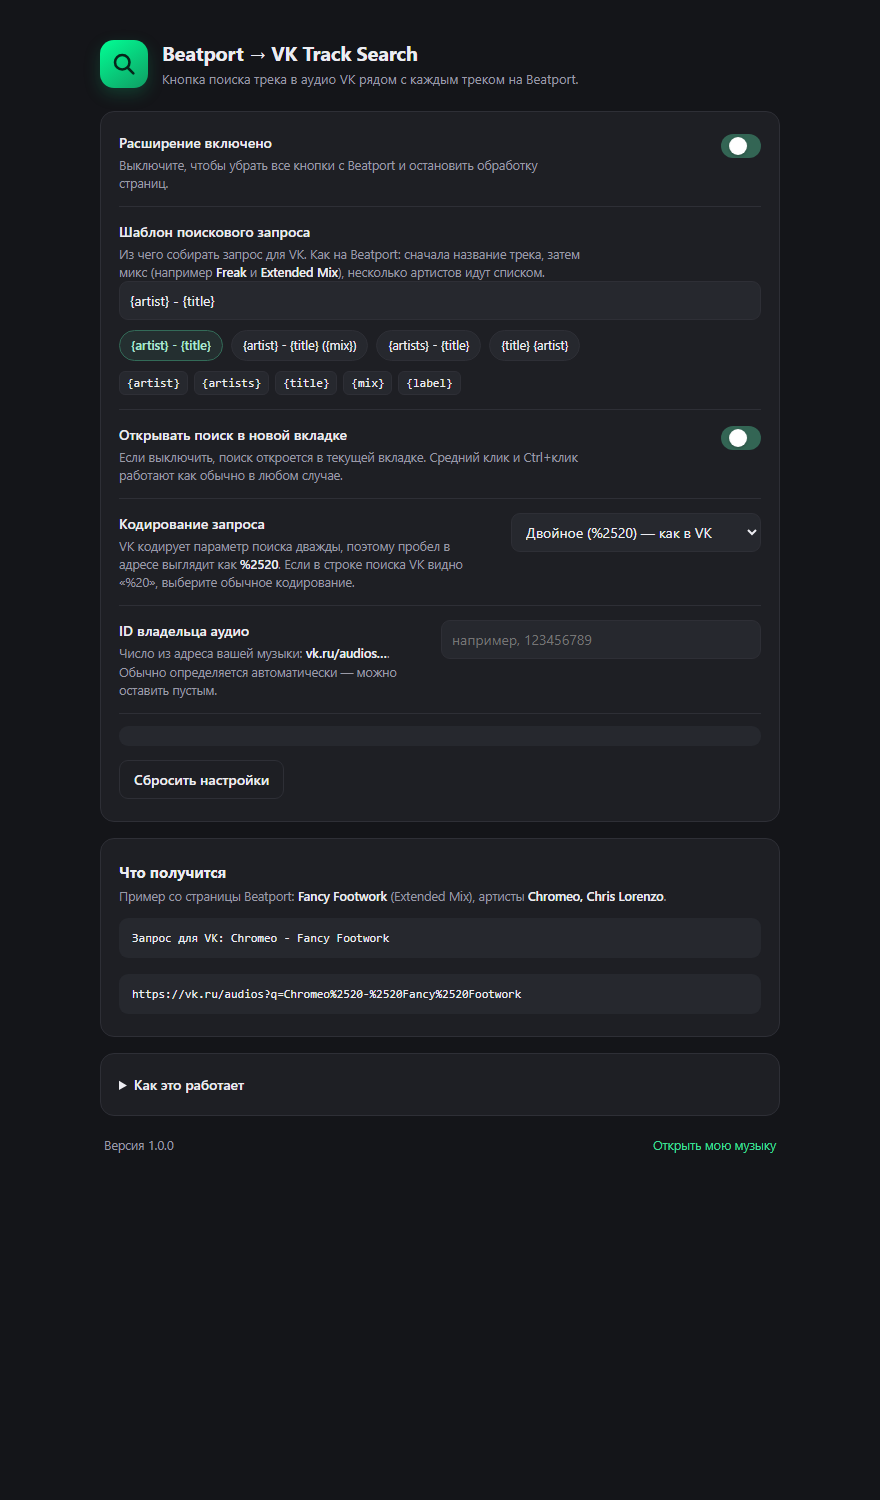
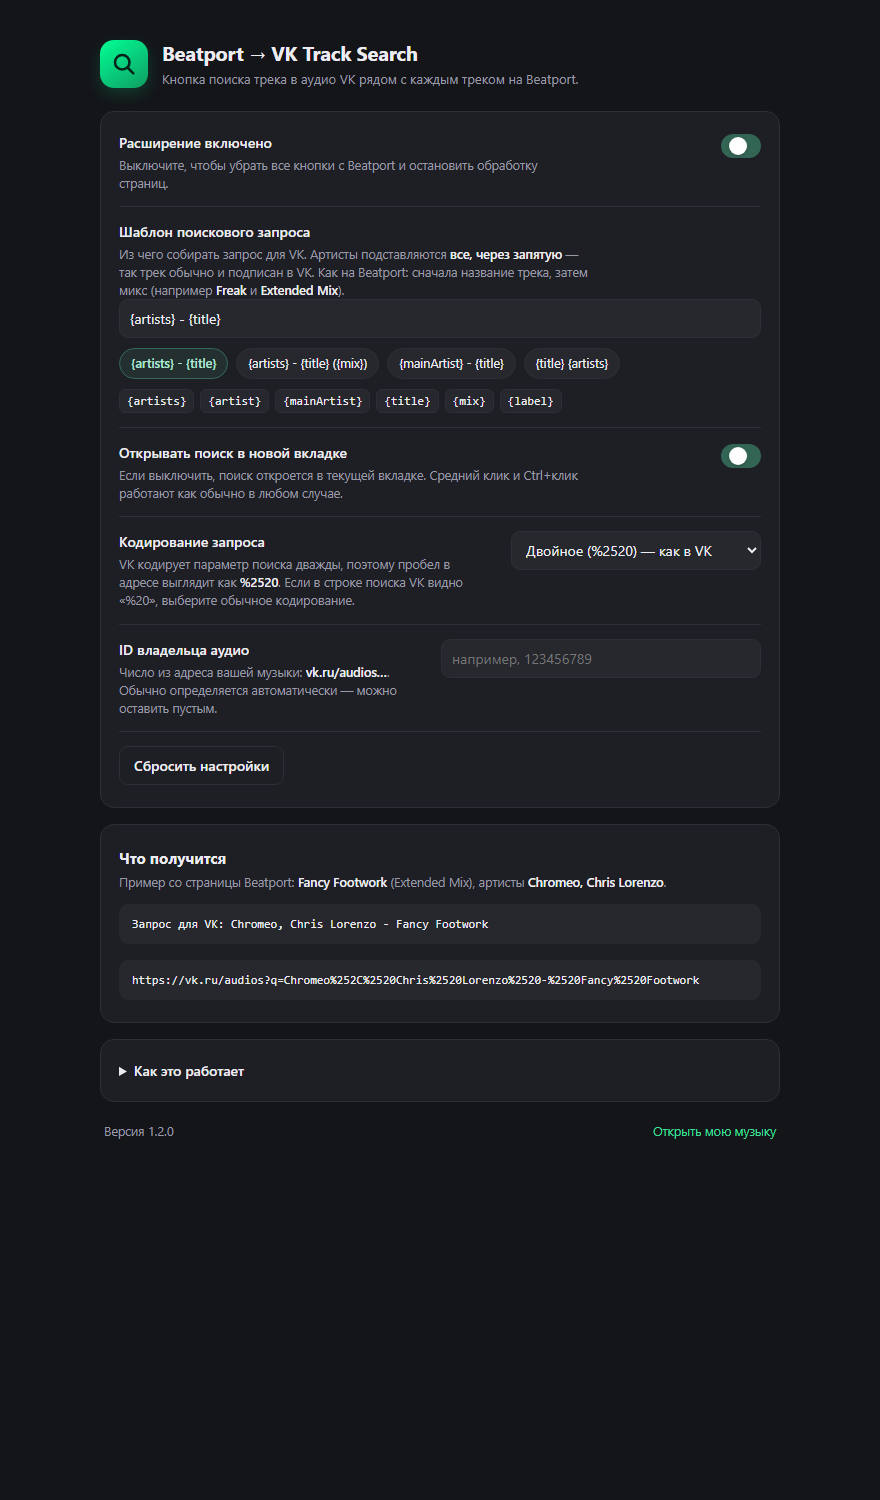
Beatport VK Track Search 1.2.0
Every artist of the track now goes into the query, comma separated: Bryan Kearney, John O'Callaghan, Key4050 - Stay In Your Lane. {artist} becomes a synonym of {artists} so templates saved in 1.0-1.1 start working as expected without edits; {mainArtist} keeps the first-only behaviour and the default template is now {artists} - {title}. 100 jsdom tests, options screenshot refreshed.

diff --git a/extension/options.html b/extension/options.html
@@ -34,22 +34,24 @@
         <label class="text" for="queryTemplate">
           <span class="label">Шаблон поискового запроса</span>
           <span class="hint">
-            Из чего собирать запрос для VK. Как на Beatport: сначала название трека, затем микс
-            (например <strong>Freak</strong> и <strong>Extended Mix</strong>), несколько артистов идут списком.
+            Из чего собирать запрос для VK. Артисты подставляются <strong>все, через запятую</strong> —
+            так трек обычно и подписан в VK. Как на Beatport: сначала название трека, затем микс
+            (например <strong>Freak</strong> и <strong>Extended Mix</strong>).
           </span>
         </label>
         <input class="text-input wide" type="text" id="queryTemplate" spellcheck="false">
 
         <div class="presets" id="presets">
-          <button type="button" class="chip" data-template="{artist} - {title}">{artist} - {title}</button>
-          <button type="button" class="chip" data-template="{artist} - {title} ({mix})">{artist} - {title} ({mix})</button>
           <button type="button" class="chip" data-template="{artists} - {title}">{artists} - {title}</button>
-          <button type="button" class="chip" data-template="{title} {artist}">{title} {artist}</button>
+          <button type="button" class="chip" data-template="{artists} - {title} ({mix})">{artists} - {title} ({mix})</button>
+          <button type="button" class="chip" data-template="{mainArtist} - {title}">{mainArtist} - {title}</button>
+          <button type="button" class="chip" data-template="{title} {artists}">{title} {artists}</button>
         </div>
 
         <div class="tokens" id="tokens">
-          <span class="token">{artist}</span>
-          <span class="token">{artists}</span>
+          <span class="token" title="Все артисты через запятую">{artists}</span>
+          <span class="token" title="То же, что {artists}">{artist}</span>
+          <span class="token" title="Только первый артист">{mainArtist}</span>
           <span class="token">{title}</span>
           <span class="token">{mix}</span>
           <span class="token">{label}</span>

diff --git a/extension/common.js b/extension/common.js
@@ -9,13 +9,14 @@
 (function () {
   'use strict';
 
-  var VERSION = '1.1.0';
+  var VERSION = '1.2.0';
 
   var DEFAULTS = {
     // Включено ли расширение целиком.
     enabled: true,
-    // Шаблон поискового запроса. Подстановки: {artist}, {artists}, {title}, {mix}, {label}.
-    queryTemplate: '{artist} - {title}',
+    // Шаблон поискового запроса. Подстановки: {artists}, {artist}, {mainArtist},
+    // {title}, {mix}, {label}.
+    queryTemplate: '{artists} - {title}',
     // Открывать поиск VK в новой вкладке.
     openInNewTab: true,
     // VK кодирует параметр поиска дважды: пробел выглядит как %2520.
@@ -36,6 +37,12 @@
   /*
    * Собирает поисковый запрос из данных трека.
    * info: { artists: [...], title, mix, label }
+   *
+   * Про артистов: у трека на Beatport их бывает несколько (Bryan Kearney,
+   * John O'Callaghan, Key4050), и в VK трек обычно подписан всеми сразу.
+   * Поэтому {artist} — это ВСЕ артисты через запятую (синоним {artists},
+   * имя оставлено, чтобы шаблоны 1.0–1.1 заработали правильно без правок),
+   * а {mainArtist} — только первый.
    */
   function renderQuery(info, options) {
     var opts = options || {};
@@ -44,14 +51,17 @@
 
     var data = info || {};
     var artists = Array.isArray(data.artists) ? data.artists : [];
+    var allArtists = artists.join(', ');
+    var mainArtist = artists[0] || '';
     var mix = normalizeText(data.mix);
 
     // Микса нет — убираем и скобки вокруг него, чтобы не получить «()».
     if (!mix) template = template.replace(/\s*\(\s*\{mix\}\s*\)/g, '');
 
     var query = template
-      .replace(/\{artist\}/g, artists[0] || '')
-      .replace(/\{artists\}/g, artists.join(', '))
+      .replace(/\{mainArtist\}/g, mainArtist)
+      .replace(/\{artist\}/g, allArtists)
+      .replace(/\{artists\}/g, allArtists)
       .replace(/\{title\}/g, normalizeText(data.title))
       .replace(/\{mix\}/g, mix)
       .replace(/\{label\}/g, normalizeText(data.label));

diff --git a/extension/content.js b/extension/content.js
@@ -322,7 +322,7 @@
       return window.BP2VK.renderQuery(info, settings);
     }
     var artists = info.artists || [];
-    return normalizeText([artists[0] || '', info.title || ''].join(' - '))
+    return normalizeText([artists.join(', '), info.title || ''].join(' - '))
       .replace(/^[\s\-–—]+/, '')
       .trim();
   }
